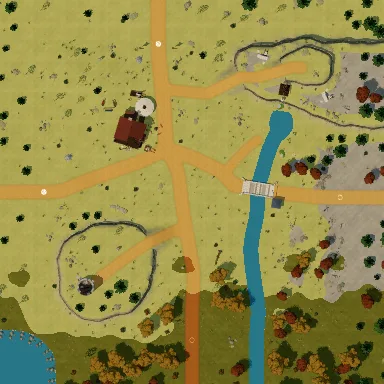
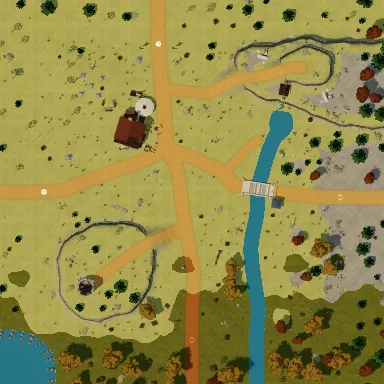
East coast fields: the shepherds' fold on the sea cliffs, the caravan graves, the maple beach dressed, lighter fog; pictures retaken
Claude-Session: https://claude.ai/code/session_01EoAgD4nUuveX489aYfu2wP

diff --git a/src/world3d/field_inner_sea_cliffs.ts b/src/world3d/field_inner_sea_cliffs.ts
@@ -240,9 +240,16 @@ export function build(quality: { flowers: number }): Town {
     tryPlace(ref, at, h, 240, { solid: ring(150) });
   for (const [c, r, n] of [[[4100, -4300], 700, 5], [[3700, 1500], 500, 3], [[-800, -4500], 600, 4], [[2300, -3800], 500, 3], [[-1400, 1200], 400, 2], [[4900, -2000], 500, 3]] as [XY, number, number][])
     scatter({ x0: c[0] - r, x1: c[0] + r, y0: c[1] - r, y1: c[1] + r }, n, ["flora:Pine", "flora:PineSmall", "flora:Birch", "flora:PineSmall"], 190, (x, y) => meadow(x, y) && !onTrack(x, y, 400), { s: [0.8, 1.1] });
+  // the shepherds of the coast: their fold and hut on the meadow north-east, the flock out on the
+  // grass; a wayside shrine where the ways meet
+  const FOLD: XY = [3300, -2900];
+  place("westfarm:sheepfold", FOLD, faceTo(FOLD, [2500, -2000]), 520);
+  tryPlace("westfarm:shepherd_hut", [4100, -2300], faceTo([4100, -2300], [3300, -1800]), 320);
+  for (const [x, y, h] of [[2600, -3600, 30], [2300, -2700, 200]] as number[][]) tryPlace("westfarm:sheep_flock", [x, y], h, 260, { solid: "none" });
+  tryPlace("westfarm:wayside_shrine", [1050, -150], faceTo([1050, -150], J), 120);
   // a fish cart left by the track down to the bay, horses from the steppe grazing the north end
   tryPlace("trunrada:cart", [-1500, 1100], faceDir(-1, 0.4), 220);
-  for (const [x, y, h] of [[3900, -2900, 30], [4300, -3300, 200], [3500, -3600, 120]] as number[][]) tryPlace("trunrada:horse_grazing", [x, y], h, 150, { solid: "none" });
+  for (const [x, y, h] of [[4600, 1200, 30], [4300, 1500, 200], [4800, 1600, 120]] as number[][]) tryPlace("trunrada:horse_grazing", [x, y], h, 150, { solid: "none" });
   scatter({ x0: -R, x1: R, y0: -R, y1: R }, 12, ["steppe:boulder", "steppe:boulder_flat", "steppe:rock_cluster"], 200, meadow, { s: [0.6, 1], solid: 140 });
   scatter({ x0: -R, x1: R, y0: -R, y1: R }, 30, ["steppe:scrub", "eastcoast:sea_pinks"], 100, meadow, { s: [0.7, 1.2], solid: "none" });
   scatter({ x0: -R, x1: R, y0: -R, y1: R }, 220, ["steppe:grass_tuft"], 60, (x, y) => meadow(x, y) || onW1(x, y) || inPoly(S1, x, y), { s: [0.7, 1.4], solid: "none", tries: 9000 });
@@ -257,7 +264,7 @@ export function build(quality: { flowers: number }): Town {
   // doorstep or the lighthouse's) ----
   f.monsterSpots(ground, { x0: -R + 300, x1: R - 300, y0: -R + 300, y1: R - 300 }, {
     step: 760, max: 52,
-    keepOut: (x, y) => Math.hypot(x - LIGHT[0], y - LIGHT[1]) < 700 || Math.hypot(x + 2350, y - 1000) < 650,
+    keepOut: (x, y) => Math.hypot(x - LIGHT[0], y - LIGHT[1]) < 700 || Math.hypot(x + 2350, y - 1000) < 650 || Math.hypot(x - 3500, y + 2700) < 900,
   });
 
   // ---- people ----
@@ -300,6 +307,7 @@ export function build(quality: { flowers: number }): Town {
       { x: -3300, y: -4000, text: "เนินนางนวล" },
       { x: -2900, y: -2300, text: "ผาริมทะเลใต้", kind: "small" },
       { x: 2200, y: -1800, text: "ทุ่งหญ้าริมผา", kind: "small" },
+      { x: 3300, y: -2300, text: "คอกแกะริมทุ่ง", kind: "small" },
     ],
   });
 }

diff --git a/src/world3d/field_caravan_road.ts b/src/world3d/field_caravan_road.ts
@@ -293,6 +293,14 @@ export function build(quality: { flowers: number }): Town {
   const low = (x: number, y: number) => inBox(x, y, 250) && ![Q1, RIDGE].some((p) => inPoly(p, x, y));
   for (const [ref, at, h] of [["trunrada:standing_stone", [4600, 3200], 20], ["steppe:stone_idol", [3900, 300], 120], ["steppe:fallen_menhir", [-600, 2500], 60], ["trunrada:cairn", [1200, 4300], 0], ["steppe:dead_tree", [-1200, -3500], 30], ["steppe:bones", [1300, -3600], 100]] as [string, XY, number][])
     tryPlace(ref, at, h, 220, { solid: ref.endsWith("bones") ? "none" : ring(120) });
+  // the caravan drivers' graves on a rise by the north road: cairns, a stone, a dead tree, a
+  // broken cart wheel left on one
+  const GRAVES: XY = [3700, 3500];
+  for (const [dx, dy, h] of [[0, 0, 0], [350, 280, 40], [-300, 350, 80], [250, -350, 20], [-350, -250, 60]] as number[][])
+    tryPlace("trunrada:cairn", [GRAVES[0] + dx, GRAVES[1] + dy], h, 120, { s: 0.8, solid: ring(70) });
+  tryPlace("trunrada:standing_stone", [GRAVES[0] - 650, GRAVES[1] + 100], 15, 90, { solid: ring(50) });
+  tryPlace("steppe:dead_tree", [GRAVES[0] + 600, GRAVES[1] - 50], 40, 140, { solid: ring(40, "tree") });
+  tryPlace("trunrada:banner_pole", [GRAVES[0] + 100, GRAVES[1] + 650], 30, 60, { solid: ring(20, "post") });
   // copses: birch and pine in the north, golden maples coming in from the south, pine and autumn
   // trees toward Kradia
   for (const [c, r, n, kinds] of [
@@ -371,6 +379,7 @@ export function build(quality: { flowers: number }): Town {
       { x: POOL[0] - 600, y: POOL[1], text: "บ่อต้นลำธาร", kind: "small" },
       { x: TOWER[0] + 700, y: TOWER[1], text: "เนินหอเฝ้าทางเก่า" },
       { x: -2000, y: -3300, text: "ทุ่งหญ้าริมลำธาร", kind: "small" },
+      { x: GRAVES[0] - 500, y: GRAVES[1], text: "เนินหลุมศพคนคาราวาน", kind: "small" },
     ],
   });
 }

diff --git a/src/world3d/kits/eastcoast.ts b/src/world3d/kits/eastcoast.ts
@@ -112,7 +112,7 @@ defineMaterial("Eastcoast_Gravel", { map: "cobble", tint: "#a59f93", bump: 1.5 }
 defineMaterial("Eastcoast_Ember", { tint: "#ff8a3a", rough: 1, glow: "#ff4a12", glowI: 1.8 });
 defineMaterial("Eastcoast_Flame", { tint: "#ffb04a", rough: 1, glow: "#ff6a1a", glowI: 2 });
 defineMaterial("Eastcoast_Soot", { map: "felt", tint: "#2e2a28", rough: 1 });
-defineMaterial("Eastcoast_BlackWater", { tint: "#1c2827", rough: 0.06, opacity: 0.95 });
+defineMaterial("Eastcoast_BlackWater", { tint: "#2c4842", rough: 0.06, opacity: 0.93 });
 // cliff faces for the fields: the coast's granite, the witch's cape's dark rock
 defineMaterial("Eastcoast_CliffGranite", { map: "crag", tint: "#a0968a", bump: 4 });
 defineMaterial("Eastcoast_CliffDark", { map: "crag", tint: "#6e6a6c", bump: 4 });
@@ -1202,7 +1202,7 @@ function lowFog(): THREE.Group {
     parts.push(ellipsoid([rx, ry, 30 + rnd() * 30], [x, y, 18 + rnd() * 50], "fog", 12));
   }
   for (let i = 0; i < 3; i++) parts.push(ellipsoid([260 + rnd() * 140, 170 + rnd() * 70, 22], [(rnd() - 0.5) * 800, (rnd() - 0.5) * 260, 100 + rnd() * 30], "fog", 10));
-  const mat = new THREE.MeshStandardMaterial({ color: "#d9e2dc", transparent: true, opacity: 0.17, roughness: 1, depthWrite: false, emissive: new THREE.Color("#8f9e95"), emissiveIntensity: 0.4 });
+  const mat = new THREE.MeshStandardMaterial({ color: "#cdd8d2", transparent: true, opacity: 0.12, roughness: 1, depthWrite: false, emissive: new THREE.Color("#7f8f86"), emissiveIntensity: 0.25 });
   const g = toThree(merge(...parts), () => mat);
   g.traverse((o) => {
     o.castShadow = false;

diff --git a/src/world3d/field_golden_maples.ts b/src/world3d/field_golden_maples.ts
@@ -194,6 +194,14 @@ export function build(_quality: { flowers: number }): Town {
     if (onBeach(x, y)) tryPlace(i % 3 ? "eastcoast:shore_rocks" : "frontier:fallen_log", [x, y], rnd() * 360, 220, { s: 0.6 + rnd() * 0.3, solid: ring(120) });
   }
   tryPlace("eastcoast:rowboat", [-4050, 1500], 40, 220, { solid: [{ kind: "boat", x: 0, y: 0, w: 380, d: 140, rot: 0 }] });
+  // driftwood, rocks and a few gold bushes where the sand meets the wood; a fire of driftwood
+  for (const [ref, at, h, sc] of [
+    ["frontier:fallen_log", [-4100, 2300], 70, 0.8], ["eastcoast:shore_rocks", [-4300, -1100], 20, 0.7], ["eastcoast:shore_rocks", [-3900, 2700], 150, 0.6],
+    ["frontier:fallen_log", [-4150, -600], 120, 0.7], ["eastcoast:shore_rocks", [-4250, 900], 260, 0.5], ["frontier:flat_rocks", [-3950, -1400], 30, 0.8],
+    ["eastcoast:golden_bush", [-3550, 2150], 0, 0.7], ["eastcoast:golden_bush", [-3650, -800], 90, 0.6], ["eastcoast:golden_bush", [-3500, 1200], 200, 0.55],
+  ] as [string, XY, number, number][])
+    tryPlace(ref, at, h, 200 * sc, { s: sc, solid: ref.endsWith("bush") ? "none" : ref.endsWith("log") ? [{ kind: "log", x: 0, y: 0, w: 100, d: 520, rot: 0 }] : ring(130 * sc) });
+  tryPlace("frontier:campfire", [-3950, 1950], 0, 140, { s: 0.8, solid: ring(80, "fire") });
   // reeds, flat rocks and ferns along the stream's banks
   for (const { p, d } of every(STREAM, 330, 150)) {
     if (!inBox(p[0], p[1], 200) || Math.hypot(p[0] - BRIDGE[0], p[1] - BRIDGE[1]) < 800 || p[0] < -3400) continue;
